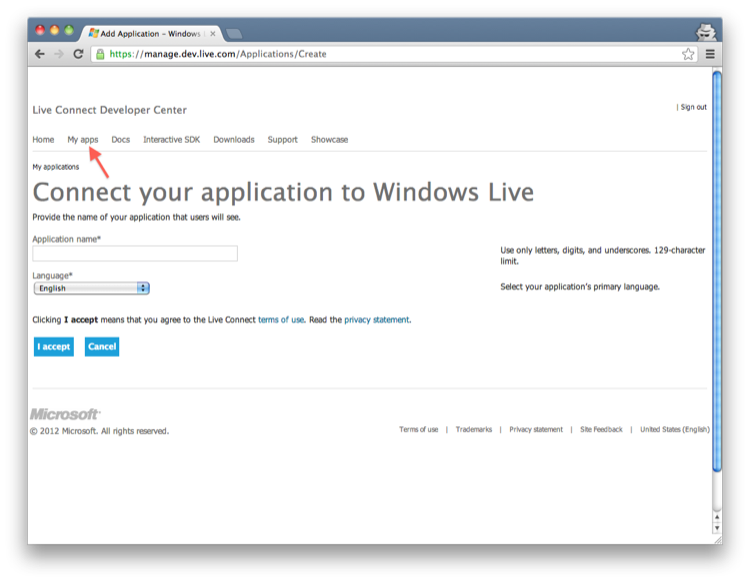
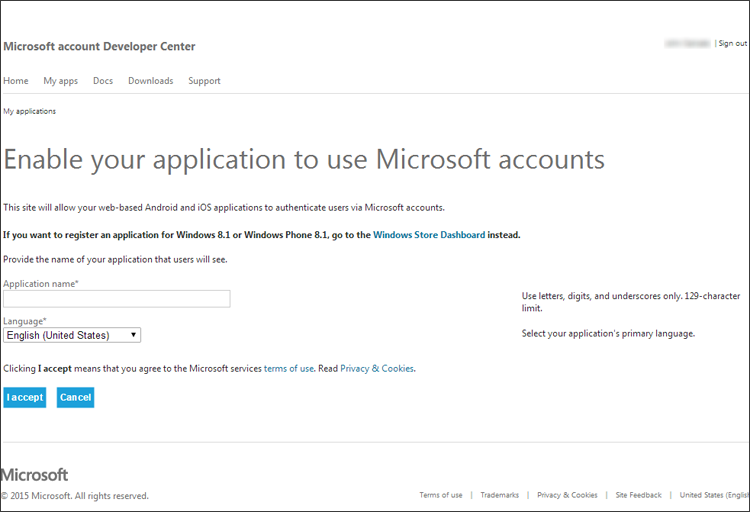
Basic Edits, new steps, new screenshots

Changed region(s): [[0.0, 0.0, 1.0, 1.0], [0.6133, 0.7188, 0.828, 0.75]]

diff --git a/articles/connections/social/microsoft-account.md b/articles/connections/social/microsoft-account.md
@@ -8,23 +8,38 @@ alias:
  - windows-live
 ---
 
-# Obtaining a ClientId and Client Secret in Microsoft Account
+# Obtain a *Client Id* and *Client Secret* for Microsoft account
 
-To configure Microsoft Account OAuth connections you need to register an application in the Live Connect Developer Center.
+To configure Microsoft Account OAuth connections, you need to register your application in the Microsoft account Developer Center.
 
-## 1. Log in into Live Connect Developer Center
-Log into [the Developer Center](https://account.live.com/developers/applications), then select __My Apps__:
+## 1. Log into the Microsoft account Developer Center and create an application
+
+Log into the [Developer Center](https://account.live.com/developers/applications) and click **Create application**. Name your new app and click **I accept**:
 
 ![](/media/articles/connections/social/microsoft-account/ma-portal-1.png)
 
----
+## 2. Provide basic information about your app
 
-## 2. Create an application
+Once the app is created, complete the Basic Information form and click **Save**:
 
 ![](/media/articles/connections/social/microsoft-account/ma-portal-2.png)
 
-After the app is created, copy the `ClientId` and `ClientSecret` and enter them into your connection settings.
+## 3. Enter your callback URL
 
-Also, make sure you setup the callback URL for the app. That information should go into the `redirect domain` textbox and for your setup is:
+Select **API Settings** from the left menu. Complete the form and enter the following in the **Redirect URLs** field and click **Save**:
 
 	https://${account.namespace}/login/callback
+
+![](/media/articles/connections/social/microsoft-account/ma-portal-3.png)
+
+## 4. Get your *Client Id* and *Client Secret*
+
+Select **App Settings** from the left menu. Your app's `Client Id` and `Client Secret` will be displayed:
+
+![](/media/articles/connections/social/microsoft-account/ma-portal-4.png)
+
+## 5. Copy your *Client Id* and *Client Secret*
+
+Go to your [Auth0 Dashboard](https://manage.auth0.com) and select **Connections > Social**, then choose **Windows Live**. Copy the `Client Id` and `Client Secret` from the **App Settings** section of the Microsoft account Developer Center into the fields on this page on Auth0 and click **Save**:
+
+![](/media/articles/connections/social/microsoft-account/ma-portal-5.png)
